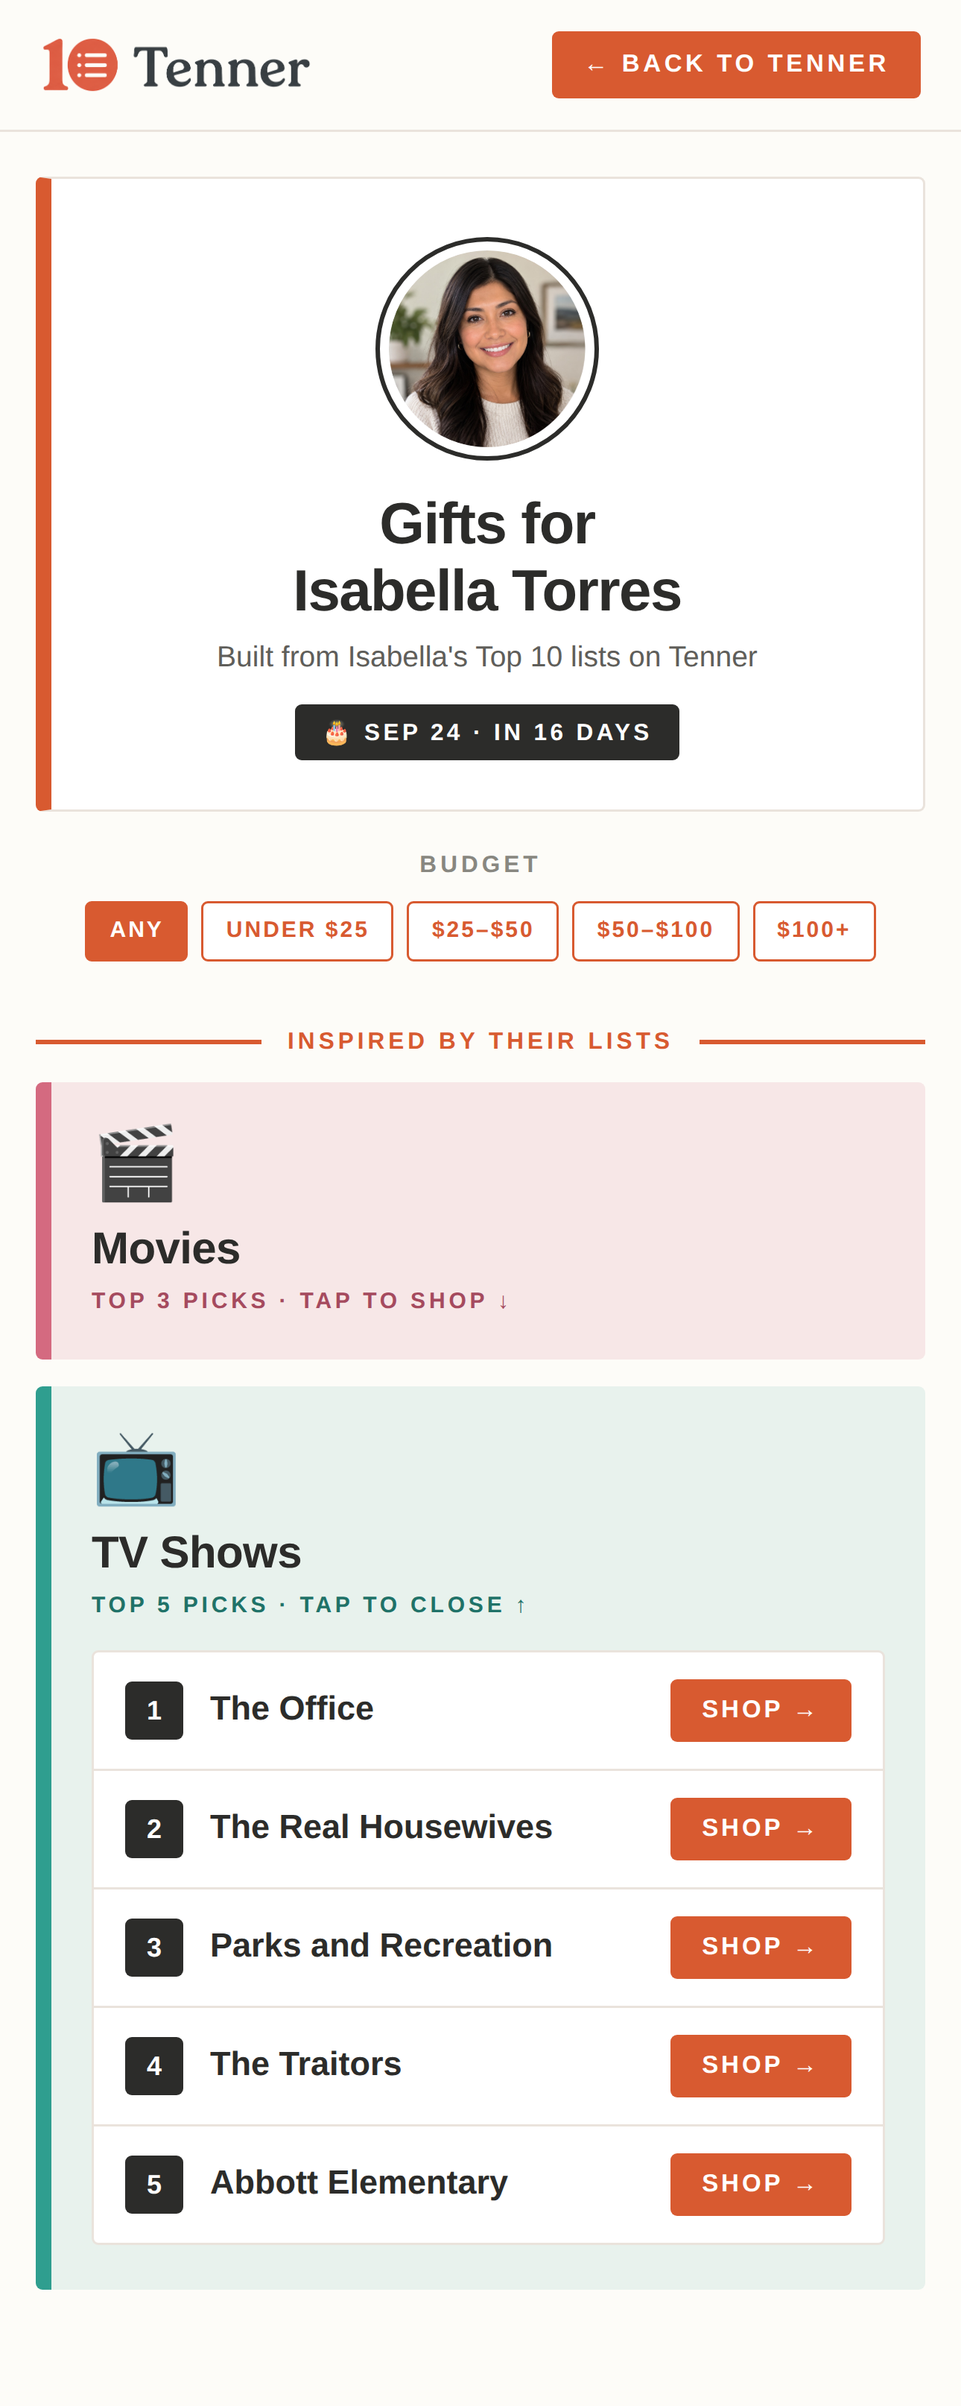
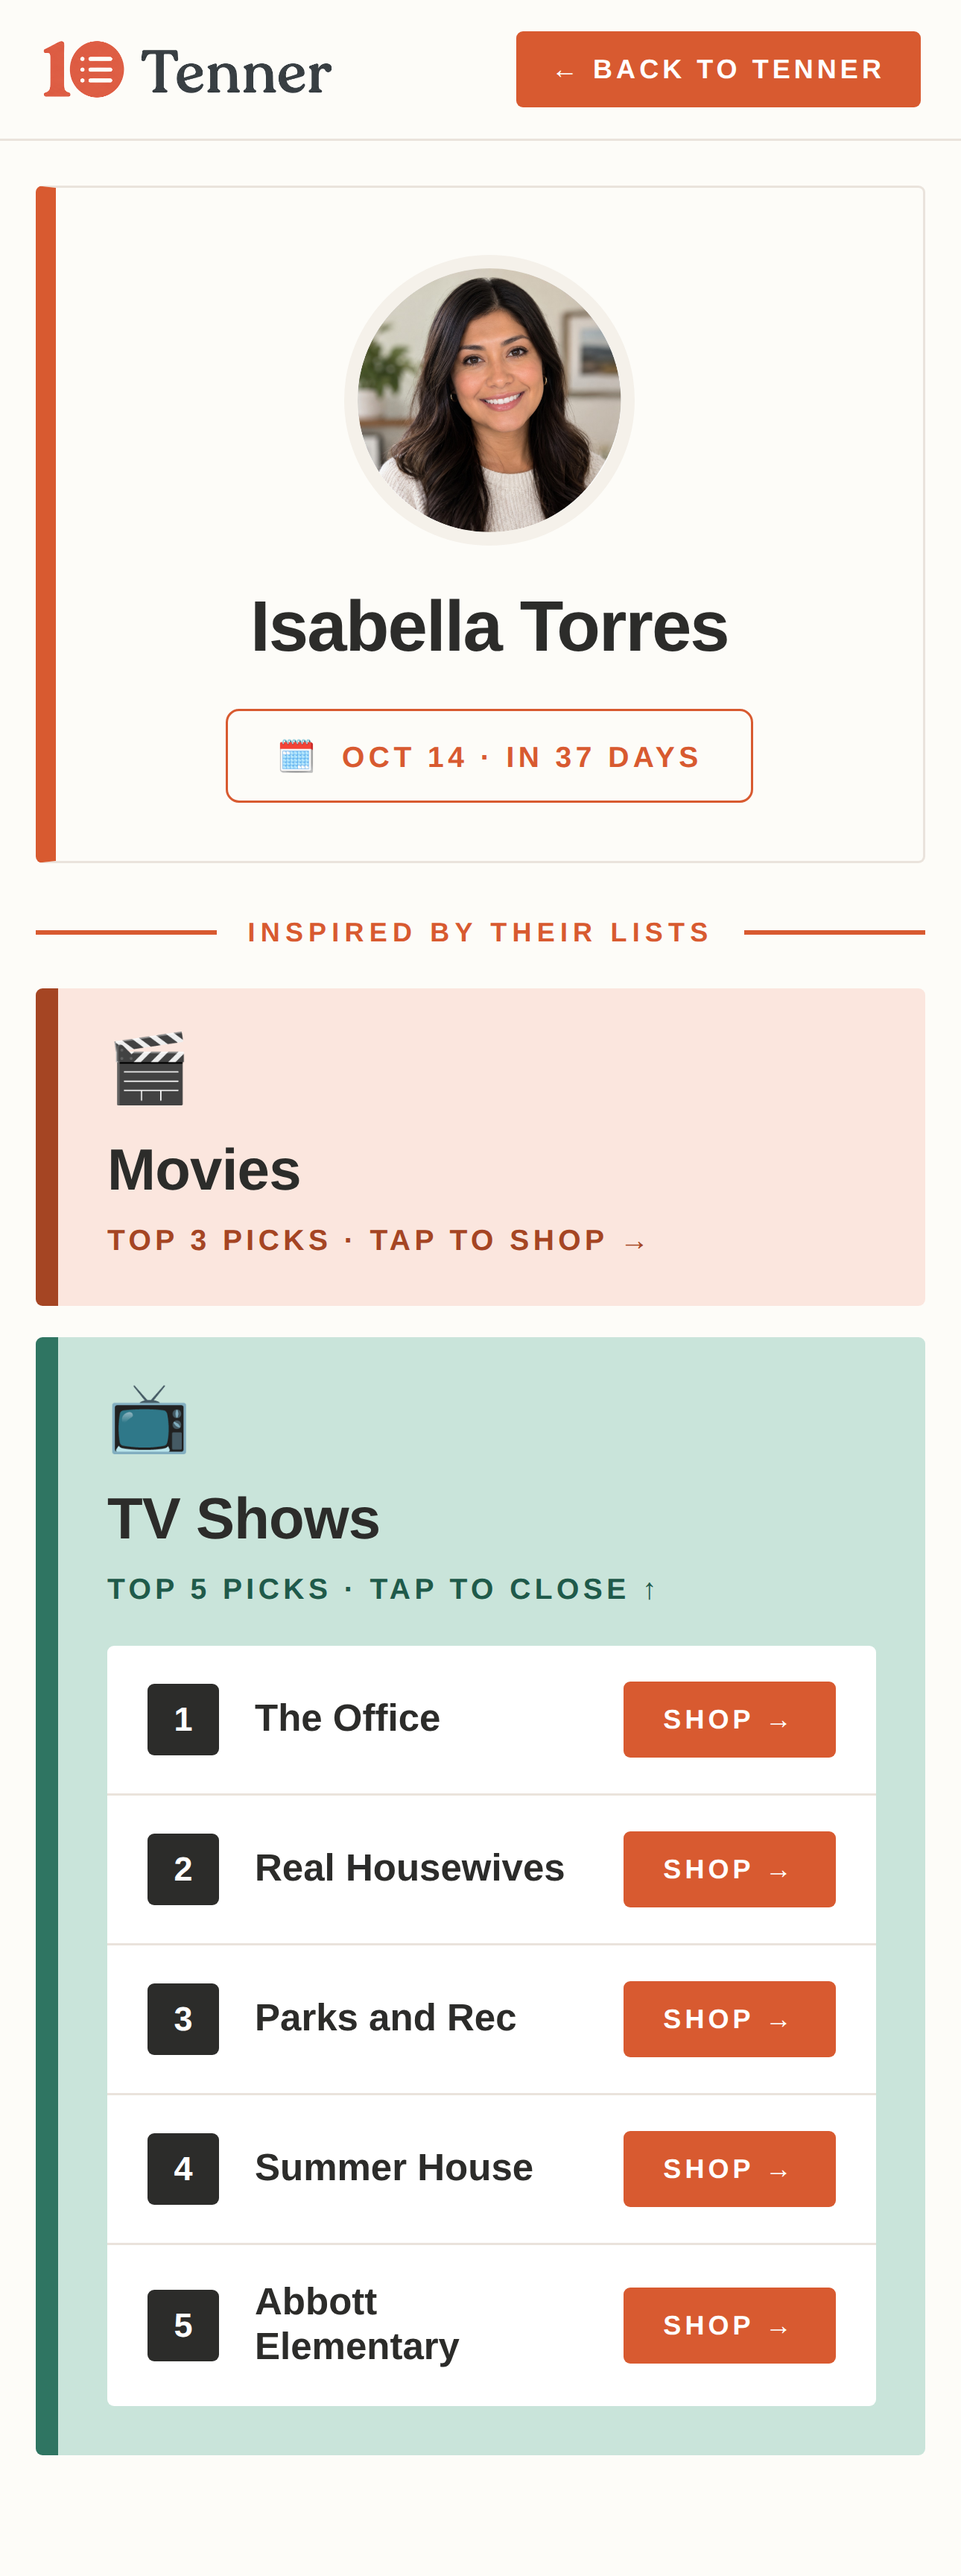
Rewrite mock-gift-isabella to match reference design
Cleaner hero: photo in soft ring, just the name (no 'Gifts for'
heading, no 'Built from...' subtitle), and a coral outlined
date pill 'Oct 14 · In 37 Days'. Removed the budget filter row.

Movies tile: pink background with dark-coral thick left bar.
TV Shows tile: teal background with teal thick left bar,
emoji inline top-left, larger inset white picks card. Picks
reordered per reference: The Office, Real Housewives, Parks
and Rec, Summer House, Abbott Elementary.

Claude-Session: https://claude.ai/code/session_01KNK1Z9rWHvYQJ5CvssbHB2

diff --git a/mock-gift-isabella.html b/mock-gift-isabella.html
@@ -19,131 +19,110 @@
     padding: 14px 18px; background: #FDFCF8;
     border-bottom: 1px solid #EAE3DC;
   }
-  header img.logo { height: 26px; }
+  header img.logo { height: 28px; }
   header .back {
     background: #D85A30; color: #FFF; border: none; border-radius: 3px;
-    padding: 9px 14px; font-size: 11px; font-weight: 800;
+    padding: 10px 16px; font-size: 12px; font-weight: 800;
     letter-spacing: 0.14em; text-transform: uppercase;
     font-family: inherit; text-decoration: none;
+    display: inline-flex; align-items: center; gap: 8px;
   }
 
   .page { padding: 20px 16px 40px; }
 
-  /* Hero */
+  /* Hero — clean card, thick coral left bar, photo + name + date pill */
   .hero {
-    background: #FFF; border: 1px solid #EAE3DC; border-left: 7px solid #D85A30;
-    border-radius: 3px; padding: 26px 20px 22px; text-align: center;
-    margin-bottom: 14px;
-  }
-  .avatar-ring {
-    display: inline-block; padding: 4px; background: #FFF;
-    border-radius: 999px; border: 2px solid #2C2C2A;
-    margin-bottom: 14px;
+    background: #FDFCF8; border: 1px solid #EAE3DC; border-left: 9px solid #D85A30;
+    border-radius: 3px; padding: 30px 20px 26px; text-align: center;
+    margin-bottom: 22px;
   }
   .avatar {
-    width: 88px; height: 88px; border-radius: 999px; overflow: hidden;
-    background: #F5B534; color: #FFF;
-    display: flex; align-items: center; justify-content: center;
-    font-size: 30px; font-weight: 800; letter-spacing: -0.02em;
+    width: 130px; height: 130px; border-radius: 999px;
+    background: #F5F1EA; padding: 6px;
+    margin: 0 auto 18px; overflow: hidden;
   }
-  .avatar img { width: 100%; height: 100%; object-fit: cover; display: block; }
+  .avatar img {
+    width: 100%; height: 100%; border-radius: 999px;
+    object-fit: cover; display: block;
+  }
   .hero h1 {
-    font-size: 26px; font-weight: 800; line-height: 1.15; letter-spacing: -0.02em;
-    margin: 0 0 6px;
+    font-size: 32px; font-weight: 800; letter-spacing: -0.02em;
+    margin: 0 0 18px; color: #2C2C2A;
   }
-  .hero .sub {
-    font-size: 13px; color: #5F5E5A; margin: 0 0 14px;
+  .hero .date-pill {
+    display: inline-flex; align-items: center; gap: 10px;
+    padding: 12px 22px; border: 1.5px solid #D85A30; border-radius: 6px;
+    background: #FDFCF8;
+    color: #D85A30; font-size: 13px; font-weight: 800;
+    letter-spacing: 0.14em; text-transform: uppercase;
   }
-  .hero .badge {
-    display: inline-block; background: #2C2C2A; color: #FFF;
-    padding: 6px 12px; border-radius: 3px;
-    font-size: 10.5px; font-weight: 800; letter-spacing: 0.14em;
-    text-transform: uppercase;
-  }
-
-  /* Budget — one line */
-  .budget-label {
-    font-size: 10.5px; font-weight: 800; letter-spacing: 0.16em;
-    text-transform: uppercase; color: #888780;
-    text-align: center; margin: 18px 0 10px;
-  }
-  .budget-row {
-    display: flex; gap: 6px; justify-content: center; flex-wrap: nowrap;
-    overflow-x: auto; padding-bottom: 4px; scrollbar-width: none;
-  }
-  .budget-row::-webkit-scrollbar { display: none; }
-  .pill {
-    flex-shrink: 0;
-    background: #FFF; color: #D85A30; border: 1.5px solid #D85A30;
-    padding: 7px 10px; border-radius: 3px;
-    font-size: 10px; font-weight: 800; letter-spacing: 0.10em;
-    text-transform: uppercase; font-family: inherit; cursor: pointer;
-    white-space: nowrap;
-  }
-  .pill.active { background: #D85A30; color: #FFF; }
+  .hero .date-pill .icon { font-size: 14px; }
 
   /* Section rule */
   .sec-rule {
-    display: flex; align-items: center; gap: 12px; margin: 26px 0 12px;
+    display: flex; align-items: center; gap: 14px; margin: 24px 0 18px;
   }
   .sec-rule .r { flex: 1; height: 2px; background: #D85A30; }
   .sec-rule .l {
-    font-size: 10.5px; font-weight: 800; letter-spacing: 0.16em;
+    font-size: 12px; font-weight: 800; letter-spacing: 0.20em;
     text-transform: uppercase; color: #D85A30;
   }
 
   /* Tiles */
   .tile {
-    border-radius: 3px; padding: 20px 18px; margin-bottom: 12px;
-    border-left: 7px solid #D85A30;
-    background: rgba(216,90,48,0.10);
+    border-radius: 3px; padding: 22px 22px; margin-bottom: 14px;
   }
-  .tile-emoji { font-size: 32px; line-height: 1; margin-bottom: 12px; }
-  .tile-title {
-    font-size: 20px; font-weight: 800; letter-spacing: -0.01em; margin: 0 0 6px;
+  .tile .emoji {
+    font-size: 30px; line-height: 1; margin-bottom: 14px; display: block;
   }
-  .tile-sub {
-    font-size: 10px; font-weight: 800; letter-spacing: 0.16em;
-    text-transform: uppercase; color: #D85A30;
+  .tile h2 {
+    font-size: 26px; font-weight: 800; letter-spacing: -0.01em; margin: 0 0 8px;
+    color: #2C2C2A;
+  }
+  .tile .meta {
+    font-size: 13px; font-weight: 800; letter-spacing: 0.14em;
+    text-transform: uppercase;
   }
 
-  /* Tile — movies (closed) */
-  .tile.movies {
-    background: rgba(212,106,128,0.14);
-    border-left-color: #D46A80;
+  /* Movies tile — pink bg, dark red left bar */
+  .movies {
+    background: #FBE6DE;
+    border-left: 10px solid #A54523;
   }
-  .tile.movies .tile-sub { color: #A54A5E; }
+  .movies .meta { color: #A54523; }
 
-  /* Tile — tv (open) */
-  .tile.tv {
-    background: rgba(47,158,143,0.10);
-    border-left-color: #2F9E8F;
+  /* TV Shows tile — teal bg, teal left bar, opened */
+  .tv {
+    background: #C9E4DA;
+    border-left: 10px solid #2F7562;
   }
-  .tile.tv .tile-sub { color: #1F7268; }
+  .tv .meta { color: #1F5A4A; }
 
+  /* Inset white card w/ picks */
   .picks {
-    background: #FFF; border: 1px solid #EAE3DC; border-radius: 3px;
-    margin-top: 14px; overflow: hidden;
+    background: #FFF; border-radius: 3px;
+    margin-top: 18px; overflow: hidden;
   }
   .pick {
-    display: flex; align-items: center; gap: 12px;
-    padding: 12px 14px;
+    display: flex; align-items: center; gap: 16px;
+    padding: 16px 18px;
     border-bottom: 1px solid #EAE3DC;
   }
   .pick:last-child { border-bottom: none; }
   .pick .rank {
     background: #2C2C2A; color: #FFF; border-radius: 3px;
-    width: 26px; height: 26px; font-size: 12px; font-weight: 800;
+    width: 32px; height: 32px; font-size: 15px; font-weight: 800;
     display: flex; align-items: center; justify-content: center; flex-shrink: 0;
   }
   .pick .name {
-    flex: 1; font-size: 15px; font-weight: 700; color: #2C2C2A;
+    flex: 1; font-size: 17px; font-weight: 700; color: #2C2C2A;
   }
   .pick .shop {
     background: #D85A30; color: #FFF; border: none; border-radius: 3px;
-    padding: 8px 14px; font-size: 11px; font-weight: 800;
-    letter-spacing: 0.12em; text-transform: uppercase;
+    padding: 10px 18px; font-size: 12px; font-weight: 800;
+    letter-spacing: 0.14em; text-transform: uppercase;
     text-decoration: none; font-family: inherit;
+    display: inline-flex; align-items: center; gap: 6px;
   }
 </style>
 </head>
@@ -157,42 +136,30 @@
 <div class="page">
 
   <div class="hero">
-    <div class="avatar-ring">
-      <div class="avatar">
-        <img src="assets/mock-isabella.jpg" alt="Isabella Torres" onerror="this.style.display='none';this.parentNode.textContent='IT'">
-      </div>
+    <div class="avatar">
+      <img src="assets/mock-isabella.jpg" alt="Isabella Torres">
     </div>
-    <h1>Gifts for<br>Isabella Torres</h1>
-    <p class="sub">Built from Isabella's Top 10 lists on Tenner</p>
-    <div class="badge">🎂 Sep 24 · In 16 days</div>
-  </div>
-
-  <div class="budget-label">Budget</div>
-  <div class="budget-row">
-    <button class="pill active">Any</button>
-    <button class="pill">Under $25</button>
-    <button class="pill">$25–$50</button>
-    <button class="pill">$50–$100</button>
-    <button class="pill">$100+</button>
+    <h1>Isabella Torres</h1>
+    <div class="date-pill"><span class="icon">🗓</span>Oct 14 · In 37 Days</div>
   </div>
 
   <div class="sec-rule"><div class="r"></div><div class="l">Inspired by their lists</div><div class="r"></div></div>
 
   <div class="tile movies">
-    <div class="tile-emoji">🎬</div>
-    <div class="tile-title">Movies</div>
-    <div class="tile-sub">Top 3 picks · Tap to shop ↓</div>
+    <span class="emoji">🎬</span>
+    <h2>Movies</h2>
+    <div class="meta">Top 3 picks · Tap to shop →</div>
   </div>
 
   <div class="tile tv">
-    <div class="tile-emoji">📺</div>
-    <div class="tile-title">TV Shows</div>
-    <div class="tile-sub">Top 5 picks · Tap to close ↑</div>
+    <span class="emoji">📺</span>
+    <h2>TV Shows</h2>
+    <div class="meta">Top 5 picks · Tap to close ↑</div>
     <div class="picks">
       <div class="pick"><div class="rank">1</div><div class="name">The Office</div><a class="shop" href="#">Shop →</a></div>
-      <div class="pick"><div class="rank">2</div><div class="name">The Real Housewives</div><a class="shop" href="#">Shop →</a></div>
-      <div class="pick"><div class="rank">3</div><div class="name">Parks and Recreation</div><a class="shop" href="#">Shop →</a></div>
-      <div class="pick"><div class="rank">4</div><div class="name">The Traitors</div><a class="shop" href="#">Shop →</a></div>
+      <div class="pick"><div class="rank">2</div><div class="name">Real Housewives</div><a class="shop" href="#">Shop →</a></div>
+      <div class="pick"><div class="rank">3</div><div class="name">Parks and Rec</div><a class="shop" href="#">Shop →</a></div>
+      <div class="pick"><div class="rank">4</div><div class="name">Summer House</div><a class="shop" href="#">Shop →</a></div>
       <div class="pick"><div class="rank">5</div><div class="name">Abbott Elementary</div><a class="shop" href="#">Shop →</a></div>
     </div>
   </div>
